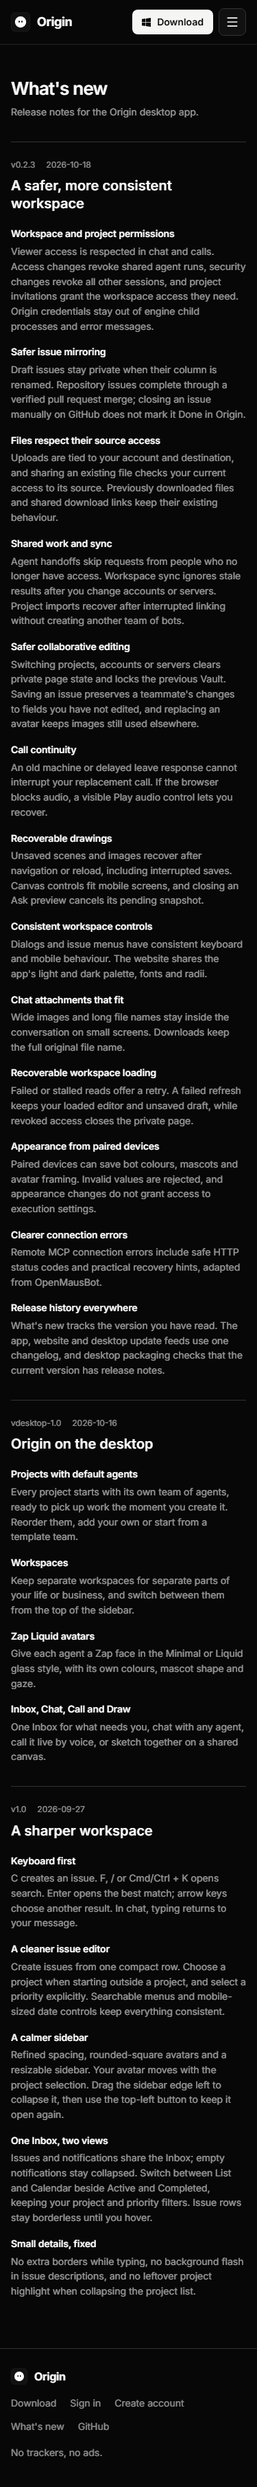
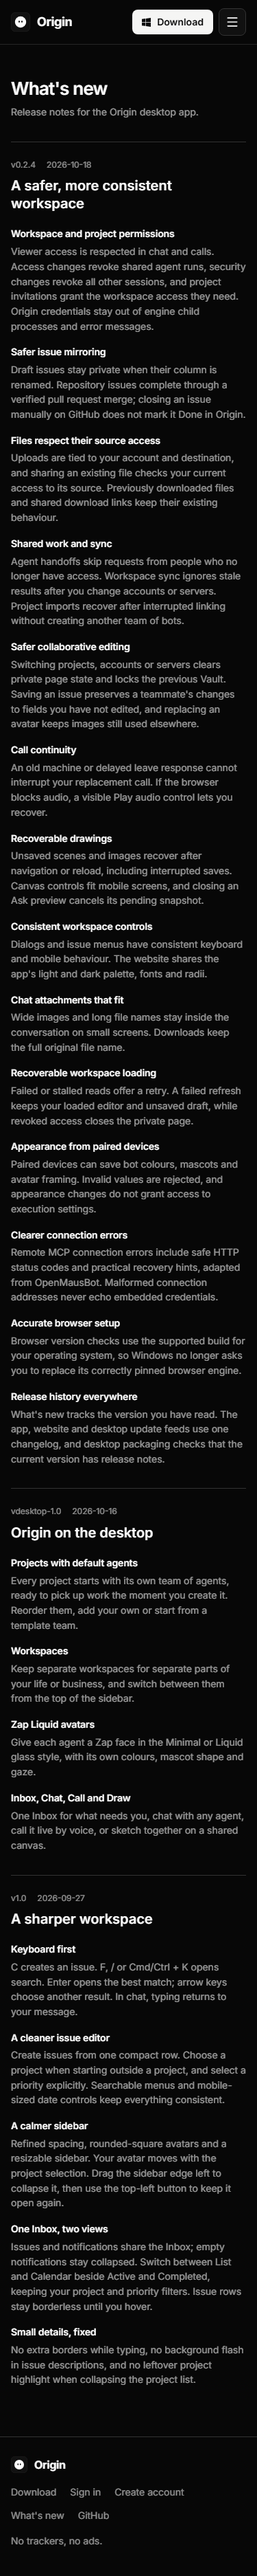
docs: record final 0.2.4 inspection and compiled website evidence

diff --git a/docs/verification/origin-audit.md b/docs/verification/origin-audit.md
@@ -21,7 +21,7 @@ Locations identify the affected implementation at the fix checkpoint. Each row l
 | P1 | `backend/convex/tasks.ts:325` | An unmirrored issue in a repository project completes directly; legacy Done-column creation/moves also bypass the workflow. | `ac2f33152`: require a matching merge proof and keep open issues out of system Done. |
 | P1 | `backend/convex/integrations.ts:87`, `server/github/review.ts:158` | Manually closing a GitHub issue completes Origin without a verified merge; delayed closure after a merge can also lose completion. | `ed09492b2`: signed, repository/issue/head-pinned merge receipts survive delayed closure; ordinary closure only mirrors state. Explicit reopen intent prevents reopening manual closures on the next tick. |
 | P1 | `src/components/OriginGate.tsx:160` | Delayed sync from a previous account/server dispatches bots or links after the active connection changes. | `f86e4149c`: scope and cancel sync work across connection changes and unmount. |
-| P1 | `server/origin-import.ts:115` | A partial project import or lost linking response leaves orphaned/duplicate Chiefs and role bots on retry. | `cbfed57e2`: atomically persist the complete team and a private import receipt, then repair cloud links on replay. |
+| P1 | `server/routes/origin-import.ts:115` | A partial project import or lost linking response leaves orphaned/duplicate Chiefs and role bots on retry. | `cbfed57e2`: atomically persist the complete team and a private import receipt, then repair cloud links on replay. |
 | P1 | `src/components/origin-pages/ui.tsx:93` | Unlock a Vault, then change project/account/server; reused children retain the previous unlock and private drafts. | `6f6f4db34`: key private page state by server, account and project/workspace. |
 | P1 | `src/components/origin-pages/IssuesPage.tsx:623` | Edit a title while a teammate changes description; saving the old two-field draft overwrites their description. | `07aa1c6ff`: track edited fields separately and follow untouched remote values. |
 | P1 | `src/components/origin-pages/DrawingCanvas.tsx:64`, `src/lib/origin-drawing-outbox.ts:9` | A save batch is removed before awaiting; navigation followed by failure requeues it into an unmounted ref. | `e716fd20a`: persist scoped elements/image bytes until acknowledgement and recover after navigation/reload. |
@@ -55,7 +55,7 @@ Locations identify the affected implementation at the fix checkpoint. Each row l
 | P3 | `cloudflare/control-plane/src/highlevel.ts:29`, `cloudflare/control-plane/test/highlevel.test.ts:299` | A wrong-state test sometimes changes only unused Base64URL pad bits, leaving the same decoded bytes and failing CI. Alternate wire spellings are also admitted. | `49320a321`: require canonical 32-byte state encodings and mutate significant bytes in the test. Two deterministic alias regressions fail before; all 132 workerd tests, typecheck and local dry-run pass. This is an encoding-contract issue, not token forgery. |
 | P1 | `scripts/deploy-origin.mjs:128` | Replacing the staged website drops untracked `deploy/` relay configuration; the fixed `.new` path can delete another operator's staging, and a global image prune affects unrelated services. | `d620d1af6`: preserve operator configuration, use unique guarded paths, target Origin alone and retain rollback state. Five actual-shell regressions fail before and pass after. |
 | P2 | `scripts/mcp-url.ts:5` | A malformed URL such as `https://member:<password>@[` makes URL validation echo the complete address, disclosing the embedded password in an error. | `d4df57e33`: return a generic malformed-address error and retain the existing public validation export. The synthetic-credential regression fails before; all 40 MCP tests pass after. |
-| P3 | `server/browser-engine.ts:249` | The pinned Windows browser asset reports `0.36.0-omb.1`, but discovery compares it to the global `0.37.0` pin and tells the user to replace the supported build. | Compare the version with the selected platform's release descriptor; retain warnings for genuine mismatches. Platform regressions fail before, and all 67 supported browser-engine tests pass after, with 10 existing OS skips. |
+| P3 | `server/browser-engine.ts:249` | The pinned Windows browser asset reports `0.36.0-omb.1`, but discovery compares it to the global `0.37.0` pin and tells the user to replace the supported build. | `5818efadf`: compare the version with the selected platform's release descriptor; retain warnings for genuine mismatches. Platform regressions fail before, and all 67 supported browser-engine tests pass after, with 10 existing OS skips. |
 
 ## UI/UX evidence
 
@@ -80,16 +80,18 @@ Four existing fork modules between 1,000 and 2,000 lines are registered under th
 
 ## Verification and delivery status
 
-- Final touched-server and guard aggregate: 18 files, 722 passing tests and 8 existing skips. Documentation guards separately pass all 7 tests.
+- Final integrated touched-server, release and guard aggregate: 42 files, 1,352 passing tests and 19 existing platform skips. Three focused server-index authority, sender-attribution and paired-appearance cases also pass. Documentation guards pass all 7 tests.
 - Full backend including storage admission: 17 files, 132 passing tests; independent storage security review completed.
 - Final project-page browser matrix: 113 cases, 40 account/member cases, 20 live-editor permission cases and 39 real Convex-client protocol cases. These use isolated synthetic data and do not claim production account acceptance.
 - Website unit tests and production build pass, including `/whats-new`. Release packaging tests exercise the installed electron-builder's feed generator using synthetic artifacts.
 - Full client/shared suite: 554 files, 5,855 passing tests. Both application/server TypeScript checks, backend TypeScript, lint, locale/catalog checks, documentation guards and final touched-server checks pass.
-- [PR #1](https://github.com/z4mbo/Origin/pull/1) is open and unmerged. Windows x64 and macOS arm64/x64 packaging succeeded for desktop source tag `origin-v0.2.3`; downloaded feeds and all 15 draft GitHub asset sizes/SHA-256 digests match the staged distribution. Public release/feed, backend and website rollout remain pending while final CI finishes. [The delivery record](origin-delivery.md) records exact sources, checks and relay credential rotation. No production account data was used for mutation testing.
+- [PR #1](https://github.com/z4mbo/Origin/pull/1) is open and unmerged. Native 0.2.3 packaging and private asset verification succeeded, but those binaries remain unshipped. The 0.2.4 source includes the subsequent credential fix, platform warning correction and CI fixture repairs; its native builds and fresh full CI are the next gates. The 0.2.4 compiled website passes two private 16-case browser runs. Public release/feed, backend and website rollout remain pending. [The delivery record](origin-delivery.md) records exact sources, checks and relay credential rotation. No production account data was used for mutation testing.
 - Some isolated synthetic fixture directories remain after automatic approval review rejected their exact guarded cleanup with “blocked by policy.” Their processes are stopped and exact paths are recorded in the feature reports; no alternate deletion bypass was attempted.
 
 ## Findings outside completed acceptance
 
 Existing download bearer URLs and previously downloaded data cannot be treated as revoked by a storage-admission fix. Native real-provider, microphone/camera, cross-machine WebRTC/TURN, signed updater and macOS interactive acceptance require their own environments. Unbounded legacy reads/deletes and missing response validators are recorded in [the backend inventory](origin-backend-access.md); they were inspected but not qualified at production scale. The contrast checker reports two pre-existing Midnight filled-button contrast gaps, while the remaining nine skins pass its thresholds; this pass preserved the core palette.
+
+One Windows one-shot native browser CLI bootstrap failed in the final renderer matrix (13 passed, one bootstrap failure, one existing POSIX skip). The same team-share test passed unchanged afterward; all five supported persistent browser-evidence cases passed. Passive observation reproduced the CLI daemon exit/restart, so the remaining launcher instability is recorded rather than hidden with retries or weaker assertions. The independent persistent-MCP checks do not reproduce a product runtime defect; see [delivery evidence](origin-delivery.md).
 
 The [daily review goal](origin-delivery-goal.md) continues at 06:00 Europe/Rome. Useful upstream changes are assessed against Origin's own account, workspace/project Chief, sender-runs and human-approval contracts before adoption.

diff --git a/docs/verification/origin-site.md b/docs/verification/origin-site.md
@@ -8,9 +8,9 @@ The website's `/whats-new` page reads `shared/origin-releases.ts`. Footer/downlo
 
 The isolated Next development server ran on `http://127.0.0.1:3017`, with `NEXT_PUBLIC_CONVEX_URL=http://127.0.0.1:20689` pointing to an unused synthetic endpoint. Its browser intercepted that WebSocket; no account was created and no production/local Convex deployment was contacted. External HTTP requests were blocked.
 
-Before screenshots cover landing, sign-in and sign-up at 375/1440 px in light/dark. Final after checks use the 2026-10-18 version 0.2.3 changelog and cover those routes plus release history: 16 cases, zero page errors, no horizontal overflow, mobile menu Escape, password visibility, named fields and Windows download target. Full-page after screenshots include the lower landing sections and footer. Evidence is in `evidence/origin-site/`: `*-before.png`, `*-after-full.png`, `before-results.json` and `after-full-results.json`. The new release-history page has no pre-existing screen to compare.
+Before screenshots cover landing, sign-in and sign-up at 375/1440 px in light/dark. Final after checks use the 2026-10-18 version 0.2.4 changelog and cover those routes plus release history: 16 cases, zero page errors, no horizontal overflow, mobile menu Escape, password visibility, named fields and Windows download target. Full-page after screenshots include the lower landing sections and footer. Evidence is in `evidence/origin-site/`: `*-before.png`, `*-after-full.png`, `before-results.json` and `after-full-results.json`. The new release-history page has no pre-existing screen to compare.
 
-The final production Docker image was built with the intended public Convex endpoints and tested before rollout through a private loopback container and SSH tunnel at `http://127.0.0.1:3034/`. The image is `origin-audit-site:0.2.3-final`, ID `sha256:4510c3ccf3598946de922215ffb7f7f9951ddb2ce23760346026fdc33c55d48e`, from website commit `c397371e1`. Its desktop runtime source is unchanged from tag `origin-v0.2.3`. All WebSockets are intercepted without forwarding, and non-loopback HTTP requests are blocked. Both final 16-case runs (`after` and `production-image`) pass with zero page errors. The tests never submit an account form. `production-image-full-results.json` and matching screenshots record this compiled-artifact check; they do not prove live account authentication. The private container and SSH tunnel were stopped after inspection.
+The final production Docker image was built with the intended public Convex endpoints and tested before rollout through a private loopback container and SSH tunnel at `http://127.0.0.1:3035/`. The image is `origin-audit-site:0.2.4-final`, ID `sha256:28eab45dea7a9250e12921017df6a529eefa7682c5f5103a249ffffba2e374e1`, from website commit `5818efadf`. All WebSockets are intercepted without forwarding, and non-loopback HTTP requests are blocked. Both final 16-case runs (`after` and `production-image`) pass with zero page errors. The tests never submit an account form. `production-image-full-results.json` and matching screenshots record this compiled-artifact check; they do not prove live account authentication. The private container and SSH tunnel are stopped after inspection; the separate synthetic app previews stay open for the user.
 
 ```powershell
 $env:NEXT_PUBLIC_CONVEX_URL = 'http://127.0.0.1:20689'

diff --git a/docs/verification/origin-delivery.md b/docs/verification/origin-delivery.md
@@ -4,6 +4,16 @@ Delivery is in progress. This record distinguishes published artifacts, deployed
 
 The current candidate is 0.2.4. The 0.2.3 binaries and private website image below were verified but never published; a subsequent malformed-URL credential privacy fix and final source extractions require matching new desktop builds. No 0.2.3 promotion script is eligible for execution.
 
+## Current candidate verification
+
+The 0.2.4 website image is `sha256:28eab45dea7a9250e12921017df6a529eefa7682c5f5103a249ffffba2e374e1`, built from website source `5818efadf`. Two private compiled-image runs pass 16 browser cases each, including all 14 current changelog entries in the release-history screen. All WebSockets are intercepted and external HTTP is blocked; no account form is submitted. The private container and tunnel are stopped. The separate synthetic app previews remain available to the user.
+
+The integrated touched-server, release, architecture and documentation checks pass 42 files and 1,352 tests, with 19 existing platform skips. Client/server TypeScript and full lint pass. Independent review confirms the preserved durable-import, request-attribution, authority-filtering and renderer-export invariants. Native packaging and new CI conclusions remain pending.
+
+The Windows renderer run passes 13 tests, with one native one-shot CLI bootstrap failure and one existing POSIX-only skip. The failed team-share case then passes unchanged. All five supported browser-evidence cases pass, and a separate focused persistent-MCP comparison passes two tests. Passive observation reproduces a native CLI daemon exit/restart during cold start, independently of the corrected fixture socket location. This remains an unresolved verification-tool limitation; it does not establish a failure of the production persistent-MCP path. No retries, skipped assertions, native pin changes or production workarounds hide that result.
+
+Exact guarded cleanup of some synthetic temporary directories was rejected by automatic approval review as “blocked by policy.” Their owned processes are stopped; the rejected deletion was not retried through another mechanism. In addition to the earlier feature-report paths, the stopped `openmausbot-verify-data-J3amUQ` fixture and seven renderer partial fixtures remain; the latter's exact paths are in the local cleanup evidence. The intentionally live user previews are separate from those retained directories.
+
 ## Unshipped 0.2.3 build evidence
 
 - Desktop source: `67e7a7934f2b762a6c20886ea675f7c57d4f2184`, annotated tag `origin-v0.2.3`.
